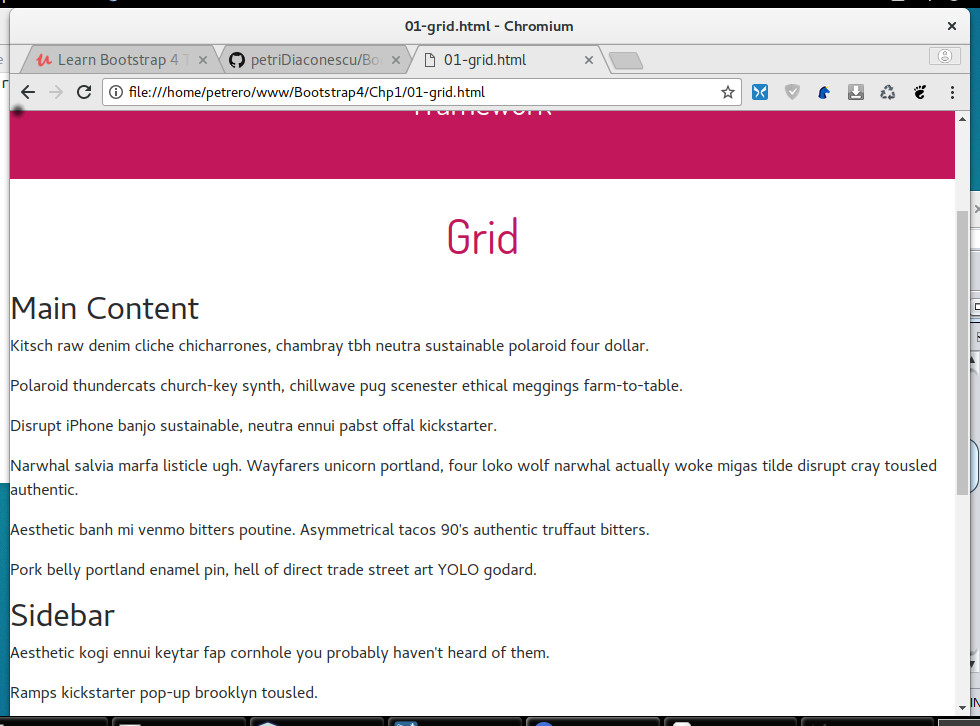
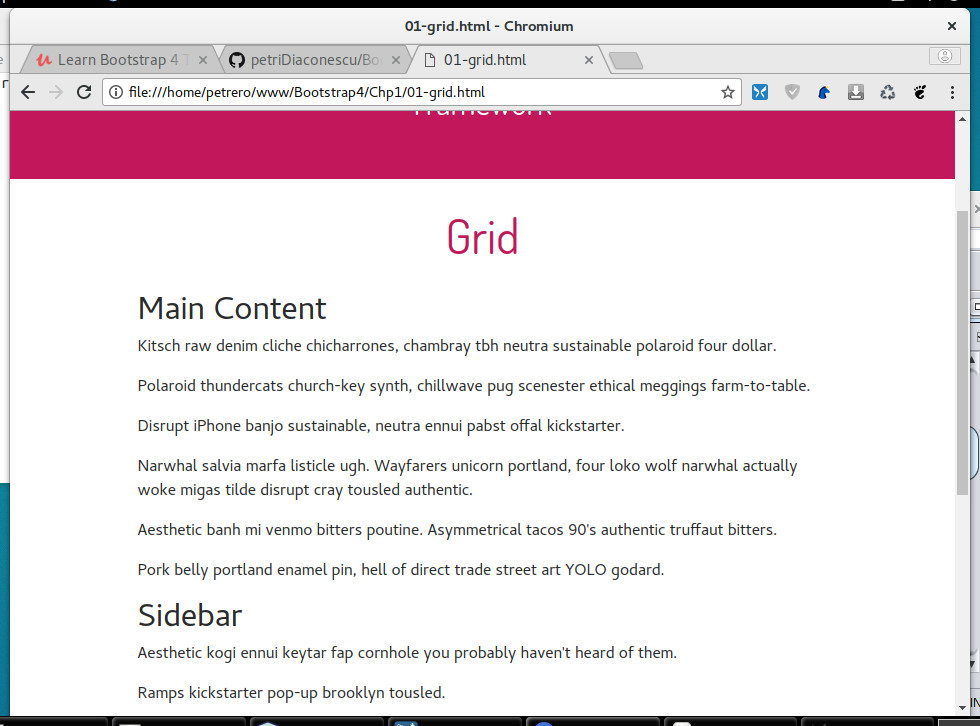
Remove the centering of the main section by applying content-fluid class

diff --git a/Chp1/01-grid.html b/Chp1/01-grid.html
@@ -22,7 +22,7 @@
     
     <h2 class="lecture-title">Grid</h2>
 
-    <main class="container">  
+    <main class="container-fluid">  
                 <h2>Main Content</h2>
 
                 <p>Kitsch raw denim cliche chicharrones, chambray tbh neutra sustainable polaroid four dollar.</p>
